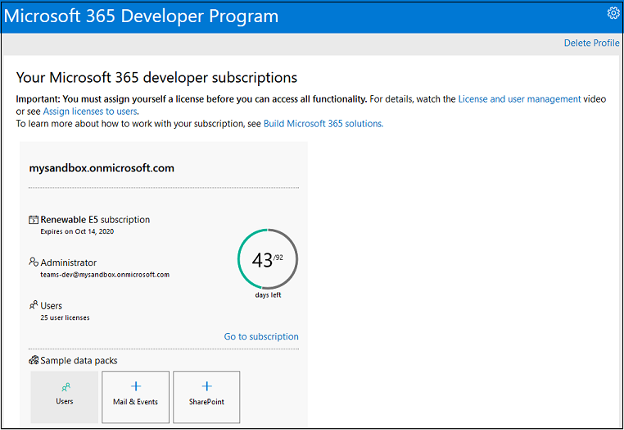
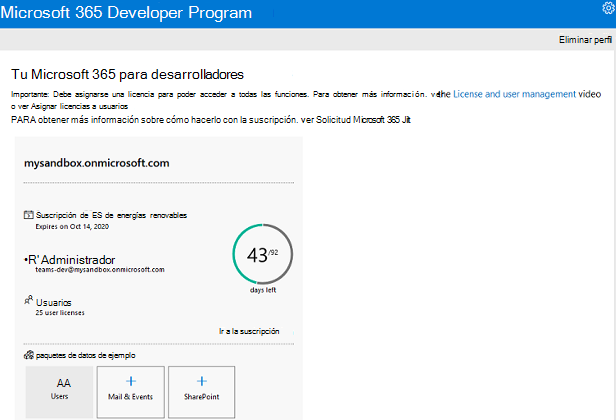
commit translated contents

diff --git a/msteams-platform/whats-new.md b/msteams-platform/whats-new.md
@@ -4,12 +4,12 @@ description: Describe todas las características de desarrollador nuevas o más 
 ms.topic: reference
 ms.localizationpriority: high
 keywords: novedades, últimas actualizaciones o características y versión preliminar para desarrolladores de teams
-ms.openlocfilehash: 5ac1def2d45938d8bc162b4d6ed4fddb9f547e86
-ms.sourcegitcommit: ca902f505a125641c379a917ee745ab418bd1ce6
+ms.openlocfilehash: 9ad67a1ecfe9947ed0dc665827dd4e127e3a4e69
+ms.sourcegitcommit: 3d0cfa779dec6bfc0daa57880ea37ab94f3d426f
 ms.translationtype: HT
 ms.contentlocale: es-ES
 ms.lasthandoff: 03/14/2022
-ms.locfileid: "63466538"
+ms.locfileid: "63492991"
 ---
 # <a name="whats-new-for-developers-in-microsoft-teams"></a>Novedades para desarrolladores en Microsoft Teams
 
@@ -22,6 +22,7 @@ Descubra las características de la plataforma Microsoft Teams que están dispon
 
 | Fecha | Actualizar | Buscar aquí |
 | --- | --- | --- |
+|14/03/2022| Se ha presentado una guía paso a paso para crear y probar un conector en Microsoft Teams. | Compilar webhooks y conectores > Crear conectores de Office 365 > [Compilación de conectores de Teams](sbs-teams-connectors.yml)|
 |10/03/2022| Se ha agregado información sobre los complementos Moodle LMS y Microsoft 365 | Integrar con Teams > Moodle LMS > [Sistema de administración de aprendizaje de Moodle](resources/moodle-overview.md)|
 |03/03/2022 | Cómo agregar la autenticación mediante un proveedor OAuth externo| Agregar autenticación > Pestañas >[Utilizar proveedores OAuth externos](tabs/how-to/authentication/auth-oauth-provider.md) |
 |25/02/2022| Se ha introducido una guía paso a paso para invocar módulos de tareas en Teams| Generar tarjetas y módulos de tareas > Generar módulos de tareas > Utilizar módulos de tareas desde los bots > [Invocar el módulo de tareas desde Teams](sbs-botbuilder-taskmodule.yml)|
@@ -50,6 +51,7 @@ Características de la plataforma Microsoft Teams que están disponibles para to
 
 | **Date** | **Actualizar** | **Buscar aquí** |
 | -------- | --------- | ----------------|
+|14/03/2022| Se ha presentado una guía paso a paso para crear y probar un conector en Microsoft Teams. | Compilar webhooks y conectores > Crear conectores de Office 365 > [Compilación de conectores de Teams](sbs-teams-connectors.yml)|
 |10/03/2022 | Se ha agregado información sobre los complementos Moodle LMS y Microsoft 365 | Integrar con Teams > Moodle LMS > [Sistema de administración de aprendizaje de Moodle](resources/moodle-overview.md)|  
 |03/03/2022 | Cómo agregar la autenticación mediante un proveedor OAuth externo| Agregar autenticación > Pestañas >[Utilizar proveedores OAuth externos](tabs/how-to/authentication/auth-oauth-provider.md) |
 | 25/02/2022| Se ha introducido una guía paso a paso para invocar módulos de tareas en Teams| Generar tarjetas y módulos de tareas > Generar módulos de tareas > Utilizar módulos de tareas desde los bots > [Invocar el módulo de tareas desde Teams](sbs-botbuilder-taskmodule.yml)|
